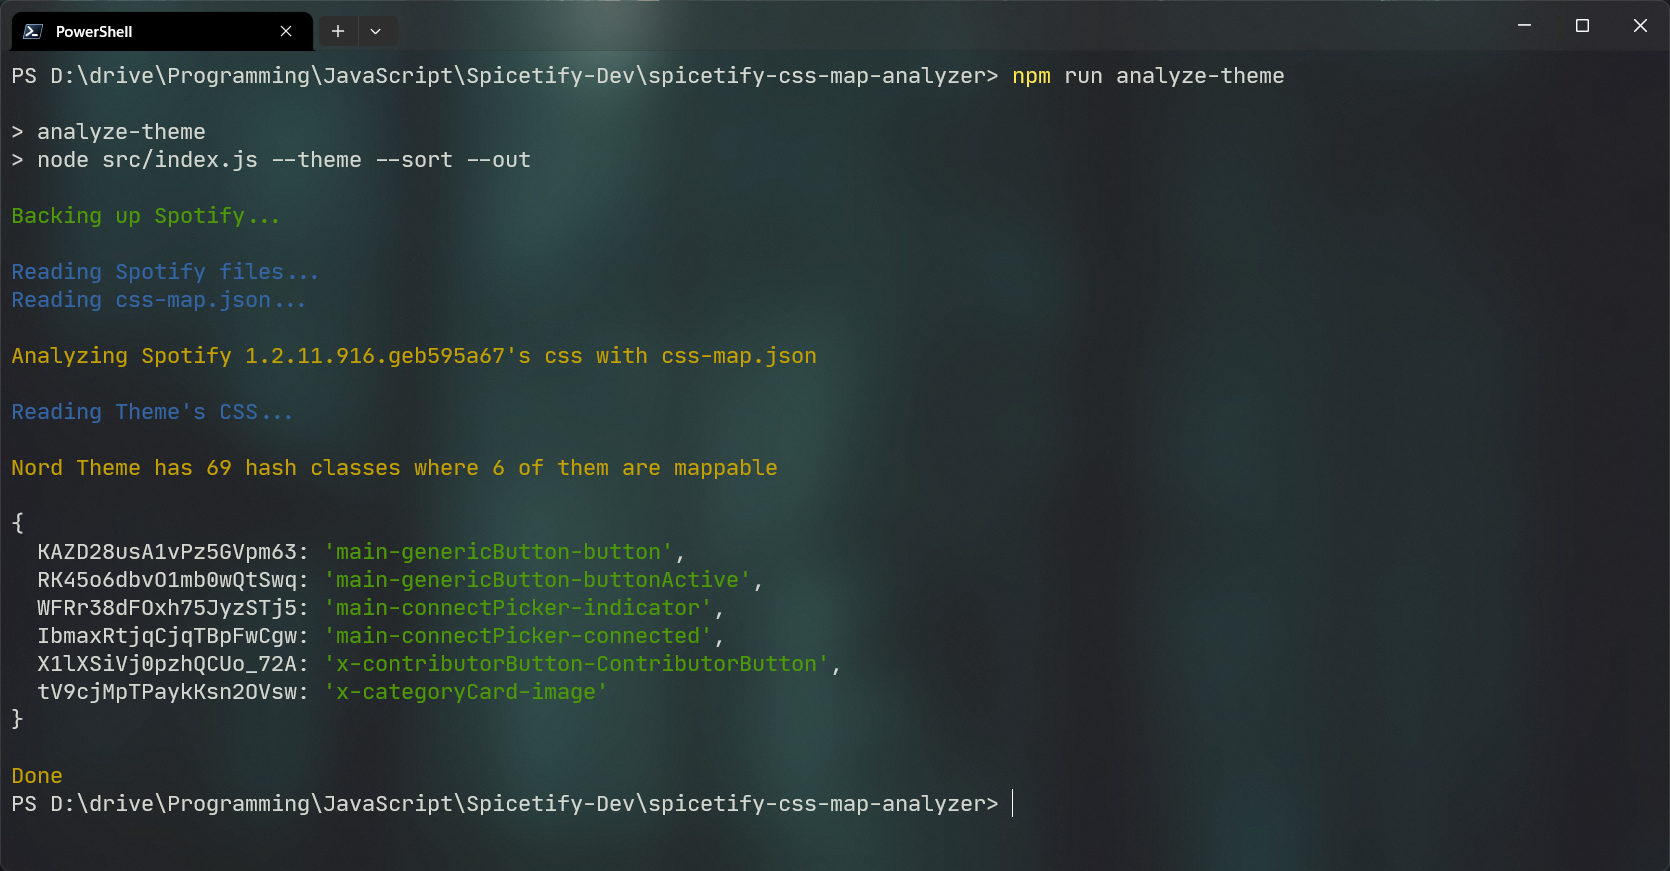
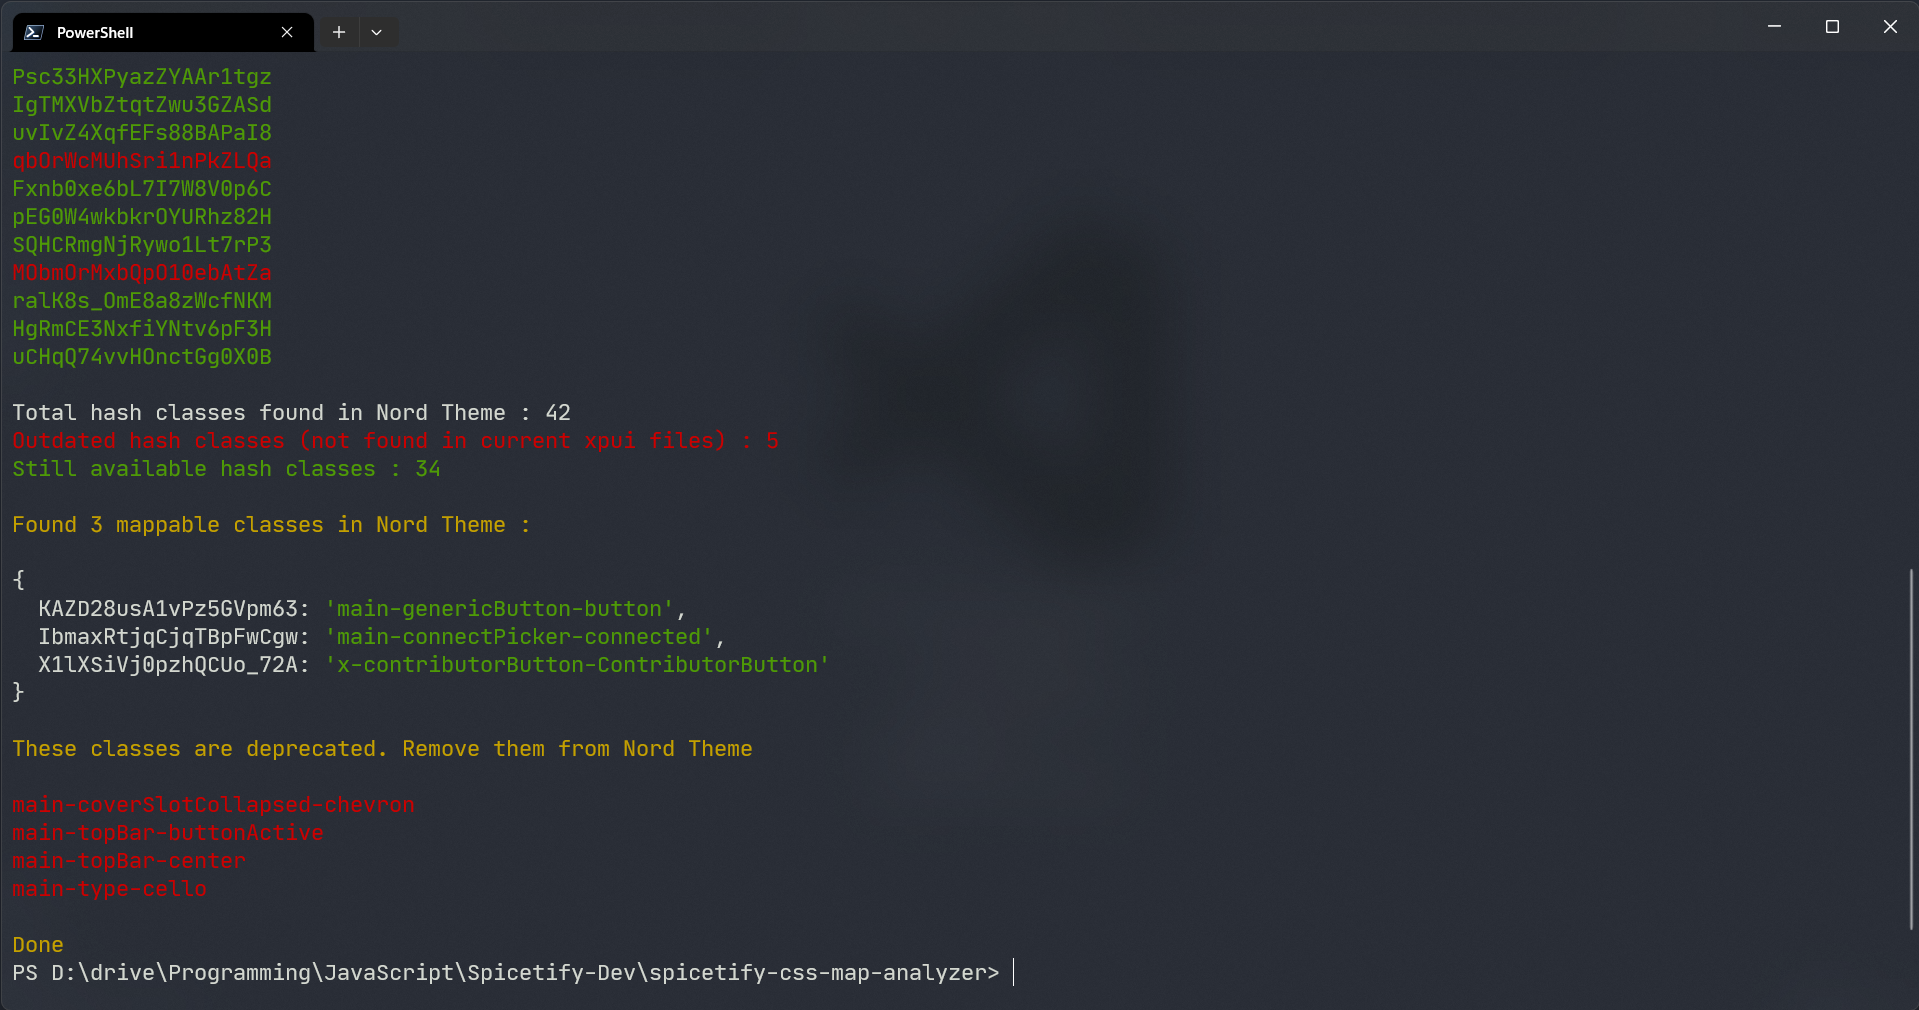
feature: theme deprecated, outdated hashes

diff --git a/src/analyzer/analyzerUtils.js b/src/analyzer/analyzerUtils.js
@@ -1,29 +1,41 @@
-import fs from "fs"
 import chalk from "chalk"
 
 import Shared from "../shared/shared.js"
 import AnalyzerGlob from "./analyzerGlob.js"
 import Glob from "../utils/glob.js"
+import Utils from "../utils/utils.js"
 
 const AnalyzerUtils = (() => {
     function separateMappedAndUnmappedClasses() {
-        console.log(chalk.yellow(`Analyzing Spotify ${Shared.spicetifyConfig.Backup.version}'s css with css-map.json\n`))
+        console.log(chalk.yellow(`Analyzing Spotify ${Shared.spicetifyConfig.Backup.version}'s css with css-map.json...`), "\n")
 
-        function getAbsoluteRegex(str) {
-            return new RegExp("(?<!\\w|-)" + str + "(?!\\w|-)")
+        if (Shared.args.unmapped && !Shared.args.mapped) {
+            console.log(chalk.yellow(`Unmapped classes in Spotify ${Shared.spicetifyConfig.Backup.version}`), "\n")
+        } else if (Shared.args.mapped && !Shared.args.unmapped) {
+            console.log(chalk.yellow(`Mapped classes in Spotify ${Shared.spicetifyConfig.Backup.version}`), "\n")
+        } else if (Shared.args.unmapped && Shared.args.mapped) {
+            console.log(chalk.yellow(`All mappable classes in Spotify ${Shared.spicetifyConfig.Backup.version}`), "\n")
         }
 
         Shared.latestCssMap.classes.all.forEach((mappedClass) => {
-            if (Shared.xpui.contents.match(getAbsoluteRegex(mappedClass)) === null) {
-                if (Shared.latestCssMap.classes.deprecated.includes(mappedClass)) return
+            if (Shared.xpui.contents.match(Utils.getAbsoluteRegex(mappedClass)) === null) {
+                if (
+                    Shared.latestCssMap.classes.deprecated.includes(mappedClass) ||
+                    Shared.latestCssMap.classes.maybeDeprecated.includes(mappedClass)
+                ) {
+                    return
+                }
 
+                Shared.latestCssMap.classes.notDeprecated.all.push(mappedClass)
                 Shared.latestCssMap.classes.unmapped.push(mappedClass)
                 if (Shared.args.unmapped) console.log(chalk.red(mappedClass))
             } else {
                 if (Shared.latestCssMap.classes.deprecated.includes(mappedClass)) {
-                    Shared.latestCssMap.classes.reimplemented.push(mappedClass)
+                    Shared.latestCssMap.classes.notDeprecated.reimplemented.push(mappedClass)
                 } else if (Shared.latestCssMap.classes.maybeDeprecated.includes(mappedClass)) {
-                    Shared.latestCssMap.classes.notDeprecated.push(mappedClass)
+                    Shared.latestCssMap.classes.notDeprecated.reimplementedMayBeDeprecated.push(mappedClass)
+                } else {
+                    Shared.latestCssMap.classes.notDeprecated.all.push(mappedClass)
                 }
 
                 Shared.latestCssMap.classes.mapped.push(mappedClass)
@@ -35,33 +47,63 @@ const AnalyzerUtils = (() => {
     }
 
     function analyzeThemesMappableClasses() {
-        Shared.theme.hashClasses = [...new Set(Shared.theme.css.match(Shared.regex.extractHashClass))]
+        Shared.theme.hashClasses.all = [...new Set(Shared.theme.css.match(Shared.regex.extractHashClass))]
 
-        Shared.theme.hashClasses.forEach((hashClass) => {
+        console.log(chalk.yellow(`Unmapped Hash classes in ${Shared.spicetifyConfig.Setting.current_theme} Theme :`), "\n")
+
+        Shared.theme.hashClasses.all.forEach((hashClass) => {
             if (Shared.originalCssMap.data.hasOwnProperty(hashClass)) {
                 Shared.theme.filteredCssMap[hashClass] = Shared.originalCssMap.data[hashClass]
+                return
+            }
+
+            if (Shared.xpui.contents.indexOf(hashClass) === -1) {
+                Shared.theme.hashClasses.outDated.push(hashClass)
+                console.log(chalk.red(hashClass))
+            } else {
+                Shared.theme.hashClasses.stillAvailable.push(hashClass)
+                console.log(chalk.green(hashClass))
             }
         })
+
+        Shared.latestCssMap.classes.deprecated.forEach((mappedClass) => {
+            // deprecated class found in theme
+            if (Shared.theme.css.match(Utils.getAbsoluteRegex(mappedClass)) !== null) {
+                Shared.theme.hashClasses.deprecated.push(mappedClass)
+            }
+        })
+
+        Shared.latestCssMap.classes.maybeDeprecated.forEach((mappedClass) => {
+            // maybe deprecated class found in theme
+            if (Shared.theme.css.match(Utils.getAbsoluteRegex(mappedClass)) !== null) {
+                Shared.theme.hashClasses.maybeDeprecated.push(mappedClass)
+            }
+        })
+
+        console.log()
     }
 
     function logClassesToOutFile() {
         if (!Shared.args.out) return
 
-        if (!fs.existsSync("./out")) {
-            fs.mkdirSync("./out")
+        if (Shared.args.unmapped || Shared.args.mapped || Shared.args.theme) {
+            Glob.create.folder("./out")
         }
 
         if (Shared.args.unmapped) {
-            fs.writeFileSync(`./out/unmapped-classes-${Shared.spicetifyConfig.Backup.version}.txt`, Shared.latestCssMap.classes.unmapped.join("\n"))
+            Glob.write.file(`./out/unmapped-classes-${Shared.spicetifyConfig.Backup.version}.txt`, Shared.latestCssMap.classes.unmapped.join("\n"))
         }
         if (Shared.args.mapped) {
-            fs.writeFileSync(`./out/mapped-classes-${Shared.spicetifyConfig.Backup.version}.txt`, Shared.latestCssMap.classes.mapped.join("\n"))
+            Glob.write.file(`./out/mapped-classes-${Shared.spicetifyConfig.Backup.version}.txt`, Shared.latestCssMap.classes.mapped.join("\n"))
         }
         if (Shared.args.unmapped && Shared.args.mapped) {
-            fs.writeFileSync(`./out/all-classes-${Shared.spicetifyConfig.Backup.version}.txt`, Shared.latestCssMap.classes.all.join("\n"))
+            Glob.write.file(
+                `./out/all-classes-${Shared.spicetifyConfig.Backup.version}.txt`,
+                Shared.latestCssMap.classes.notDeprecated.all.join("\n")
+            )
         }
         if (Shared.args.theme) {
-            fs.writeFileSync(`./out/theme-hash-classes-${Shared.spicetifyConfig.Backup.version}.txt`, Shared.theme.hashClasses.join("\n"))
+            Glob.write.file(`./out/theme-hash-classes-${Shared.spicetifyConfig.Backup.version}.txt`, Shared.theme.hashClasses.all.join("\n"))
             Glob.write.json(`./out/mappable-theme-hash-classes-${Shared.spicetifyConfig.Backup.version}.json`, Shared.theme.filteredCssMap)
         }
     }

diff --git a/src/analyzer/analyzer.js b/src/analyzer/analyzer.js
@@ -23,31 +23,34 @@ const Analyzer = (() => {
         if (Shared.args.unmapped || Shared.args.mapped) {
             console.log(`Total mappable classes : ${totalClasses}`)
             console.log(chalk.red(`Unmapped classes : ${totalUnmappedClasses}`))
-            console.log(chalk.green(`Mapped classes : ${totalMappedClasses}\n`))
+            console.log(chalk.green(`Mapped classes : ${totalMappedClasses}`), "\n")
             console.log(
                 chalk.yellow(
                     `Spicetify devs have Mapped ${Math.floor((totalMappedClasses / totalClasses) * 100)}% of mappable classes in Spotify ${
                         Shared.spicetifyConfig.Backup.version
-                    }\n`
-                )
+                    }`
+                ),
+                "\n"
             )
 
-            if (Shared.latestCssMap.classes.notDeprecated.length) {
+            if (Shared.latestCssMap.classes.notDeprecated.reimplementedMayBeDeprecated.length) {
                 console.log(
                     `${chalk.red("These classes are not deprecated.")} ${chalk.yellow(
-                        `Remove them from ${chalk.blue("may-be-deprecated-css-map.json")}\n`
-                    )}`
+                        `Remove them from ${chalk.blue("may-be-deprecated-css-map.json")}`
+                    )}`,
+                    "\n"
                 )
-                console.log(Shared.latestCssMap.classes.notDeprecated, "\n")
+                console.log(Shared.latestCssMap.classes.notDeprecated.reimplementedMayBeDeprecated, "\n")
             }
 
-            if (Shared.latestCssMap.classes.reimplemented.length) {
+            if (Shared.latestCssMap.classes.notDeprecated.reimplemented.length) {
                 console.log(
                     `${chalk.red("These classes have been reimplemented.")} ${chalk.yellow(
-                        `Remove them from ${chalk.blue("deprecated-css-map.json")}\n`
-                    )}`
+                        `Remove them from ${chalk.blue("deprecated-css-map.json")}`
+                    )}`,
+                    "\n"
                 )
-                console.log(Shared.latestCssMap.classes.reimplemented, "\n")
+                console.log(Shared.latestCssMap.classes.notDeprecated.reimplemented, "\n")
             }
         }
 
@@ -56,16 +59,42 @@ const Analyzer = (() => {
 
             AnalyzerUtils.analyzeThemesMappableClasses()
 
-            console.log(
-                chalk.yellow(
-                    `${Shared.spicetifyConfig.Setting.current_theme} Theme has ${Object.keys(Shared.theme.hashClasses).length} hash classes where ${
-                        Object.keys(Shared.theme.filteredCssMap).length
-                    } of them are mappable`
-                ),
-                "\n"
-            )
+            const totalHashClasses = Object.keys(Shared.theme.hashClasses.all).length
+            const totalOutdatedHashClasses = Shared.theme.hashClasses.outDated.length
+            const totalStillAvailableHashClasses = Shared.theme.hashClasses.stillAvailable.length
 
-            console.log(Shared.theme.filteredCssMap, "\n")
+            console.log(`Total hash classes found in ${Shared.spicetifyConfig.Setting.current_theme} Theme : ${totalHashClasses}`)
+            console.log(chalk.red(`Outdated hash classes (not found in current xpui files) : ${totalOutdatedHashClasses}`))
+            console.log(chalk.green(`Still available hash classes : ${totalStillAvailableHashClasses}`), "\n")
+
+            const totalMappableClasses = Object.keys(Shared.theme.filteredCssMap).length
+
+            if (totalMappableClasses) {
+                console.log(
+                    chalk.yellow(`Found ${totalMappableClasses} mappable classes in ${Shared.spicetifyConfig.Setting.current_theme} Theme :`),
+                    "\n"
+                )
+
+                console.log(Shared.theme.filteredCssMap, "\n")
+            }
+
+            if (Shared.theme.hashClasses.deprecated.length) {
+                console.log(
+                    chalk.yellow(`These classes are deprecated. Remove them from ${Shared.spicetifyConfig.Setting.current_theme} Theme`),
+                    "\n"
+                )
+                console.log(chalk.red(Shared.theme.hashClasses.deprecated.join("\n")), "\n")
+            }
+
+            if (Shared.theme.hashClasses.maybeDeprecated.length) {
+                console.log(
+                    chalk.yellow(
+                        `These classes might have become deprecated. Think about removing them from ${Shared.spicetifyConfig.Setting.current_theme} Theme`
+                    ),
+                    "\n"
+                )
+                console.log(chalk.red(Shared.theme.hashClasses.maybeDeprecated.join("\n")), "\n")
+            }
         }
 
         AnalyzerUtils.logClassesToOutFile()

diff --git a/src/shared/shared.js b/src/shared/shared.js
@@ -14,7 +14,13 @@ const Shared = {
     },
     theme: {
         css: "",
-        hashClasses: [],
+        hashClasses: {
+            all: [],
+            outDated: [],
+            stillAvailable: [],
+            deprecated: [],
+            maybeDeprecated: [],
+        },
         filteredCssMap: {},
     },
     originalCssMap: {
@@ -28,9 +34,12 @@ const Shared = {
             mapped: [], // latest mapped [ class-1, class-2, ... ]
             unmapped: [], // latest unmapped [ class-1, class-2, ... ]
             deprecated: [], // mappable classes that are deprecated (removed from Spotify) deprecated-css-map.json
-            reimplemented: [], // if Spotify reverts that deprecated class
             maybeDeprecated: [], // mappable classes that may be deprecated (removed from Spotify) may-be-deprecated-css-map.json
-            notDeprecated: [], // if Spotify reverts that deprecated class
+            notDeprecated: {
+                all: [],
+                reimplemented: [], // if Spotify reverts that deprecated class
+                reimplementedMayBeDeprecated: [], // if Spotify reverts that class which is probably considered as deprecated
+            },
         },
     },
     regex: {

diff --git a/src/utils/glob.js b/src/utils/glob.js
@@ -4,6 +4,12 @@ import prettier from "prettier"
 const Glob = (() => {
     const prettierConfig = getJsonObject("./.prettierrc.json")
 
+    function createFolder(path) {
+        if (!fs.existsSync(path)) {
+            fs.mkdirSync(path)
+        }
+    }
+
     function getFileContents(filePath) {
         return fs.readFileSync(filePath, "utf-8")
     }
@@ -23,12 +29,20 @@ const Glob = (() => {
         fs.writeFileSync(filePath, formatContent(JSON.stringify(object), "json"))
     }
 
+    function writeFile(filePath, content) {
+        fs.writeFileSync(filePath, content)
+    }
+
     return {
+        create: {
+            folder: createFolder,
+        },
         get: {
             fileContents: getFileContents,
             json: getJsonObject,
         },
         write: {
+            file: writeFile,
             json: writeJSON,
         },
     }

diff --git a/src/utils/utils.js b/src/utils/utils.js
@@ -11,8 +11,13 @@ const Utils = (() => {
         return reversed
     }
 
+    function getAbsoluteRegex(str) {
+        return new RegExp("(?<!\\w|-)" + str + "(?!\\w|-)")
+    }
+
     return {
         reverseObject: reverseObject,
+        getAbsoluteRegex: getAbsoluteRegex,
     }
 })()
 
